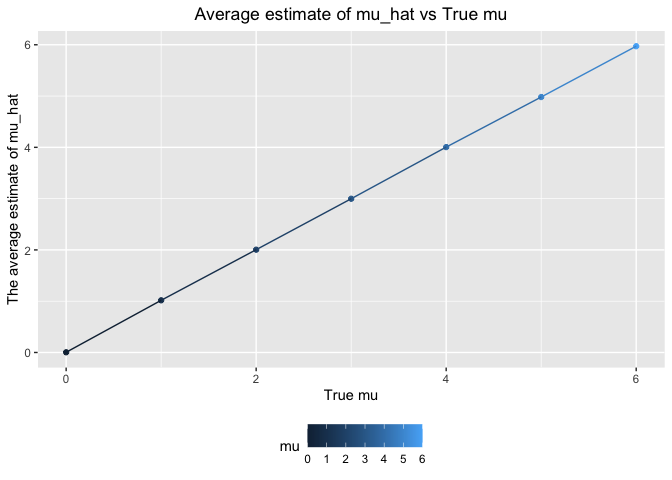
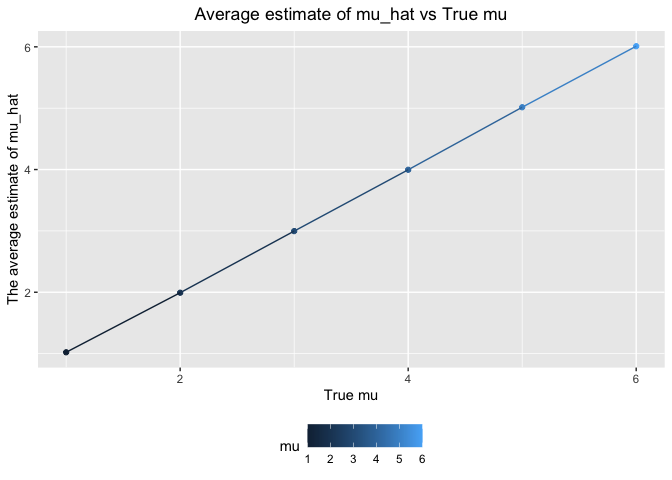
make some modifications

diff --git a/p8105_hw5_zc2610.md b/p8105_hw5_zc2610.md
@@ -451,23 +451,23 @@ bind_rows(output)
     ## # A tibble: 5,000 × 2
     ##     mu_hat p_value
     ##      <dbl>   <dbl>
-    ##  1  1.21    0.150 
-    ##  2 -1.72    0.0441
-    ##  3  0.0774  0.940 
-    ##  4 -0.772   0.427 
-    ##  5  1.98    0.0349
-    ##  6 -1.20    0.277 
-    ##  7 -0.244   0.840 
-    ##  8  1.70    0.0101
-    ##  9  0.814   0.367 
-    ## 10  0.139   0.904 
+    ##  1  1.35    0.128 
+    ##  2 -0.138   0.897 
+    ##  3  0.635   0.487 
+    ##  4 -1.43    0.0771
+    ##  5  0.290   0.731 
+    ##  6  0.675   0.519 
+    ##  7  1.70    0.107 
+    ##  8  0.406   0.557 
+    ##  9  0.0717  0.952 
+    ## 10 -0.799   0.348 
     ## # … with 4,990 more rows
 
 Repeat the above for mu={1,2,3,4,5,6}
 
 ``` r
 sim_results = tibble(
-  mu = c(0,1,2,3,4,5,6)
+  mu = c(1,2,3,4,5,6)
 ) %>% 
   mutate(
     output_lists = map(.x = mu,~rerun(5000,sim_estimate_pvalue(30,.x,5))),
@@ -493,20 +493,20 @@ sim_results = sim_results %>%
 sim_results
 ```
 
-    ## # A tibble: 35,000 × 4
-    ##       mu  mu_hat p_value conclusion    
-    ##    <dbl>   <dbl>   <dbl> <chr>         
-    ##  1     0  0.296  0.770   fail to reject
-    ##  2     0 -2.30   0.00945 reject        
-    ##  3     0 -0.0446 0.961   fail to reject
-    ##  4     0  0.324  0.792   fail to reject
-    ##  5     0 -0.0918 0.931   fail to reject
-    ##  6     0 -0.989  0.321   fail to reject
-    ##  7     0  1.55   0.116   fail to reject
-    ##  8     0  0.440  0.609   fail to reject
-    ##  9     0  0.283  0.783   fail to reject
-    ## 10     0  0.698  0.492   fail to reject
-    ## # … with 34,990 more rows
+    ## # A tibble: 30,000 × 4
+    ##       mu mu_hat p_value conclusion    
+    ##    <dbl>  <dbl>   <dbl> <chr>         
+    ##  1     1  1.16  0.146   fail to reject
+    ##  2     1  2.03  0.0910  fail to reject
+    ##  3     1  0.277 0.777   fail to reject
+    ##  4     1  2.39  0.00154 reject        
+    ##  5     1  2.19  0.0198  reject        
+    ##  6     1  1.30  0.143   fail to reject
+    ##  7     1  0.584 0.537   fail to reject
+    ##  8     1  0.332 0.684   fail to reject
+    ##  9     1  2.08  0.0237  reject        
+    ## 10     1 -0.533 0.609   fail to reject
+    ## # … with 29,990 more rows
 
 1.  Count the number of total conclusions with each true mu
 
